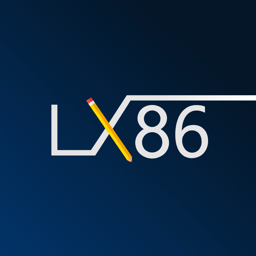
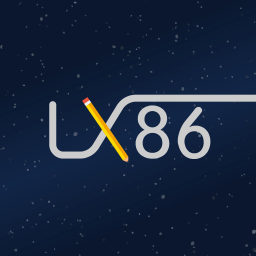
Update

diff --git a/index.html b/index.html
@@ -158,7 +158,7 @@
                                 </tr>
                                 <tr>
                                     <td>OS:&nbsp;</td>
-                                    <td>Debian 12 (Main)<br>Windows 10 (Secondary)</td>
+                                    <td>Debian Testing (Main)<br>Windows 10 (Secondary)</td>
                                 </tr>
                             </table>
                         </div>
@@ -166,8 +166,8 @@
                             <h1>Fun <small>(and not so fun)</small> Fact</h1>
                             <ul>
                                 <li>Please do look through my blog if you want to learn more about me (Yes there's an "About" page there as well)</li>
-                                <li>I am not looking for a job at the moment.</li>
-                                <li>All the cringeworthy stuff are burried under my YouTube account.</li>
+                                <li>I am not looking for a job at the moment. <small>//TODO: REMOVE THIS</small></li>
+                                <li>ISO 8601 shill!</li>
                                 <li>This site currently weighs less than 512KB, but it doesn't actually load faster than other sites with 1MB+.</li>
                                 <li>Blobfox and Blobcat are cool :D</li>
                                 <li>I pretend I am a graphics designer, no I suck at it lol</li>
@@ -176,6 +176,7 @@
                         <div class="profile-detail fourth">
                             <h1>Site changelog</h1>
                             <ul>
+                                <li>2024-04-30: Slight cleanup, update profile picture</li>
                                 <li>2023-06-09: Update calckey account, removed Discord and added Revolt as contact method</li>
                                 <li>2023-05-20: Update projects</li>
                                 <li>2023-04-20: More fun wording, subtle change to animation, add site changlog.</li>
@@ -200,8 +201,7 @@
                             </div>
                             <div class="project-detail">
                                 <h1>TakeASeat</h1>
-                                <p>A fabric sitting mod.</p>
-                                <p>MC 1.19 - 1.20</p>
+                                <p>Server-side fabric mod that allows you to sit on stairs/customizable list of blocks.</p>
                                 <div class="inline-icons">
                                     <p>
                                         <a target="_blank" href="https://github.com/Kenny-Hui/TakeASeat"><img class="clickable" alt="Sources" src="img/contact/github.png"></a>
@@ -234,7 +234,6 @@
                             <div class="project-detail">
                                 <h1>SplashFox</h1>
                                 <p>A Fabric/Quilt-compatible mod that displays an bouncy blobfox on startup.</p>
-                                <p>MC 1.17 - 1.20</p>
                                 <div class="inline-icons">
                                     <p>
                                         <a target="_blank" href="https://github.com/Kenny-Hui/splashfox"><img alt="Sources" src="img/contact/github.png"></a>
@@ -266,7 +265,6 @@
                             <div class="project-detail">
                                 <h1>RecipeCooldown</h1>
                                 <p>Server-side fabric mod to enforce cooldown for crafting recipe request</p>
-                                <p>MC 1.17 - 1.20</p>
                                 <div class="inline-icons">
                                     <p>
                                         <a target="_blank" href="https://github.com/Kenny-Hui/RecipeCooldown"><img alt="Sources" src="img/contact/github.png"></a>
@@ -486,7 +484,7 @@
                         <p>LX86 2024</p>
                         <p><i>Be whatever you want to be</i></p>
                         <br>
-                        <p><a alt="Source code of this page" href="//github.com/Kenny-Hui/kenny-hui.github.io" target="_blank">The code of this page</a> are licensed under MIT<br>Other medium are licensed under CC BY 4.0</p>
+                        <p><a alt="Source code of this page" href="https://github.com/Kenny-Hui/kenny-hui.github.io" target="_blank">The code of this page</a> are licensed under MIT<br>Other medium are licensed under CC BY 4.0</p>
                     </div>
                     <br>
                     <a href="https://512kb.club" aria-label="512KB Club: Orange Team"><img src="img/512kb.png"></a>
